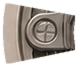
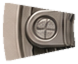
9 o'clock: curved vanish hugging the arm's top; line to 189.5 deg

diff --git a/index.html b/index.html
@@ -278,10 +278,11 @@
               <img class="cb-rig-static" src="/assets/caseback/rig/static-support-top.webp" style="left:55.502%;top:55.901%;width:3.828%;height:5.104%" alt="" decoding="async">
               <img class="cb-rig-static" src="/assets/caseback/rig/static-support-toptab.webp" style="left:54.147%;top:58.692%;width:2.313%;height:2.711%" alt="" decoding="async">
               <img class="cb-rig-static" src="/assets/caseback/rig/static-sec-eleven.webp" style="left:45.694%;top:56.619%;width:6.140%;height:6.140%" alt="" decoding="async">
-              <img class="cb-rig-static" src="/assets/caseback/rig/static-sec-nine.webp" style="left:42.105%;top:65.231%;width:6.220%;height:5.343%" alt="" decoding="async">
+              <img class="cb-rig-static" src="/assets/caseback/rig/static-sec-nine.webp" style="left:42.105%;top:65.470%;width:6.220%;height:5.104%" alt="" decoding="async">
               <img class="cb-rig-static" src="/assets/caseback/rig/static-support-bottom.webp" style="left:55.423%;top:72.807%;width:2.472%;height:5.183%" alt="" decoding="async">
               <img class="cb-rig-static" src="/assets/caseback/rig/static-support-bl-pad.webp" style="left:47.767%;top:72.488%;width:5.343%;height:6.380%" alt="" decoding="async">
               <img class="cb-rig-static" src="/assets/caseback/rig/static-support-bl-arm.webp" style="left:50.239%;top:71.531%;width:3.190%;height:3.429%" alt="" decoding="async">
+              <img class="cb-rig-static" src="/assets/caseback/rig/static-sec-nine-armhalo.webp" style="left:44.657%;top:64.673%;width:4.306%;height:2.871%" alt="" decoding="async">
               <img class="cb-rig-static" src="/assets/caseback/rig/static-gem-seconds.webp" style="left:36.762%;top:48.724%;width:2.073%;height:2.073%" alt="" decoding="async">
               <div class="cb-rig-sheen"></div>
             </div>
